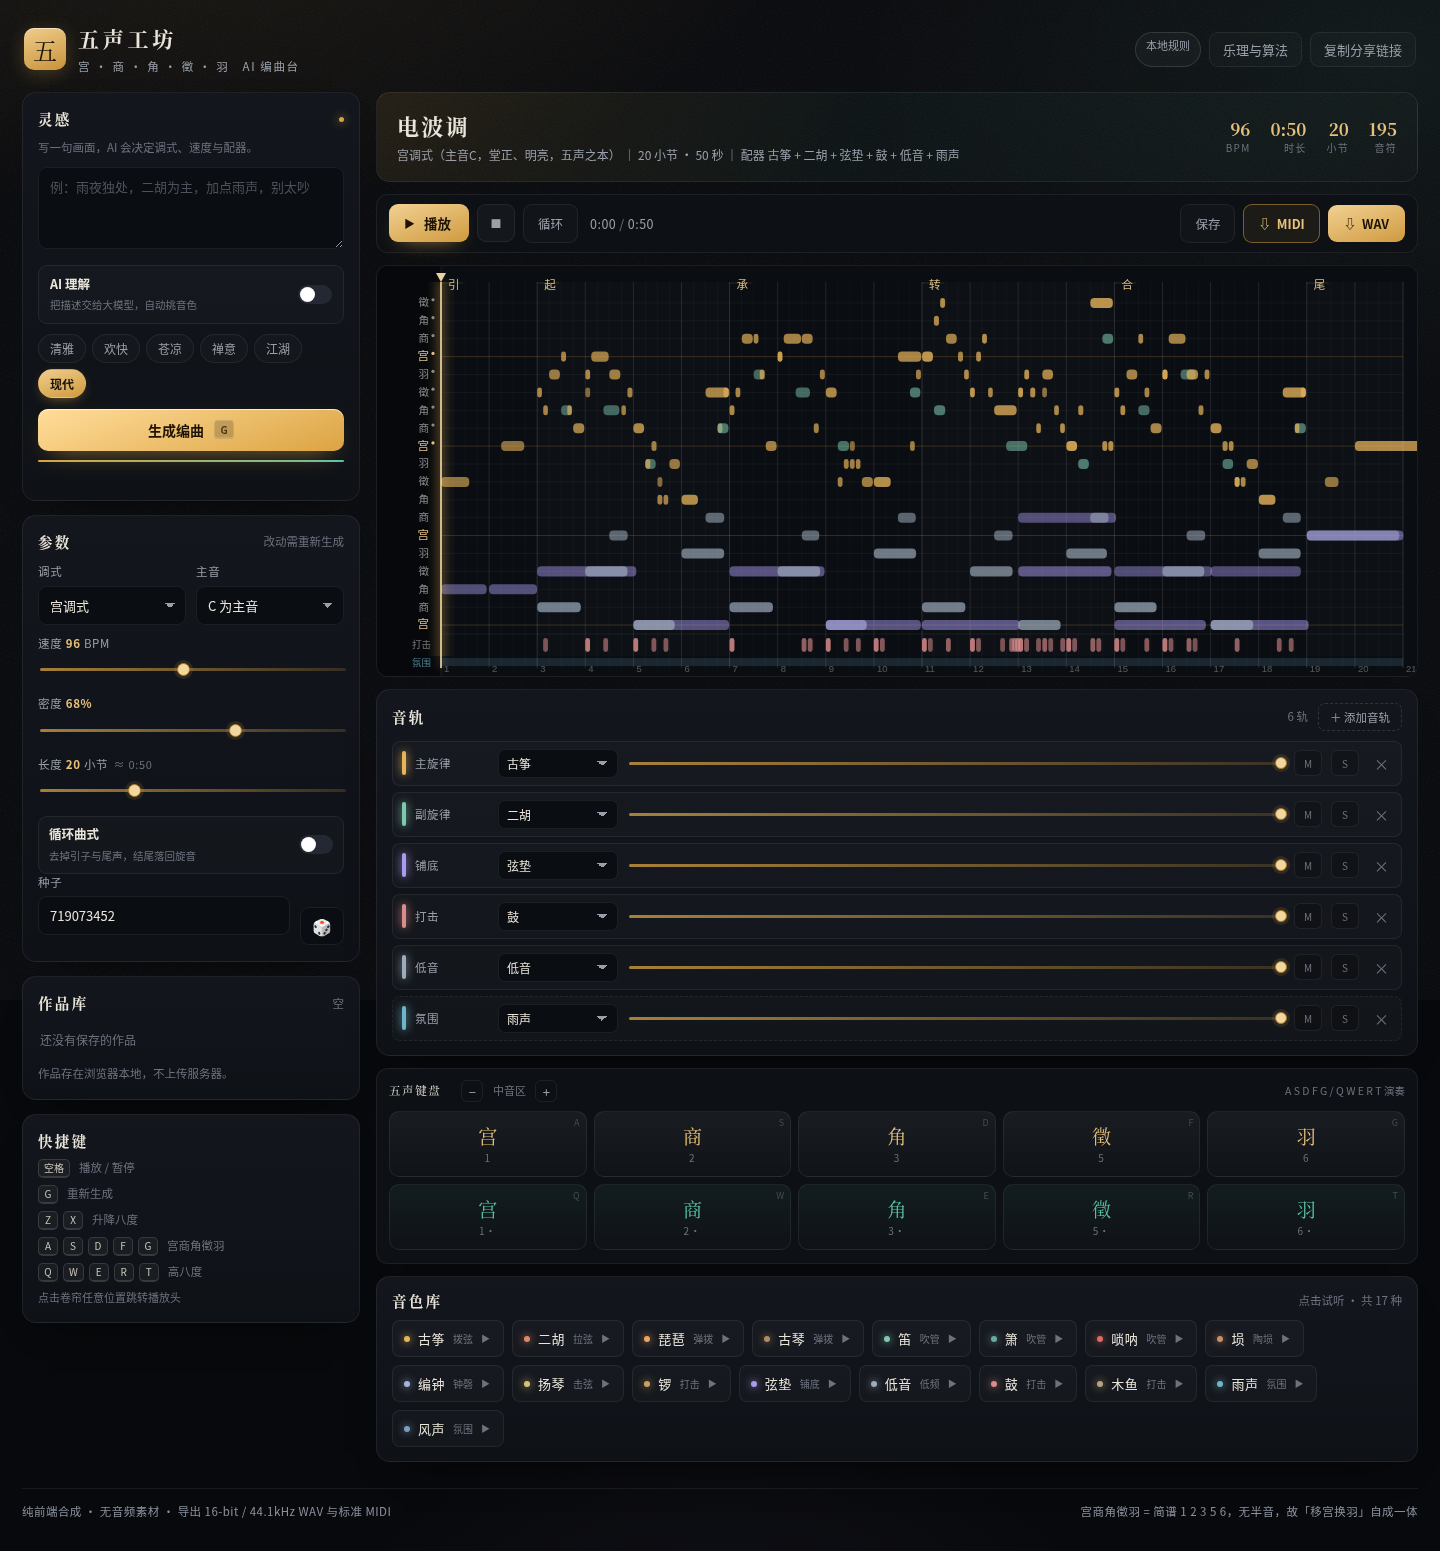
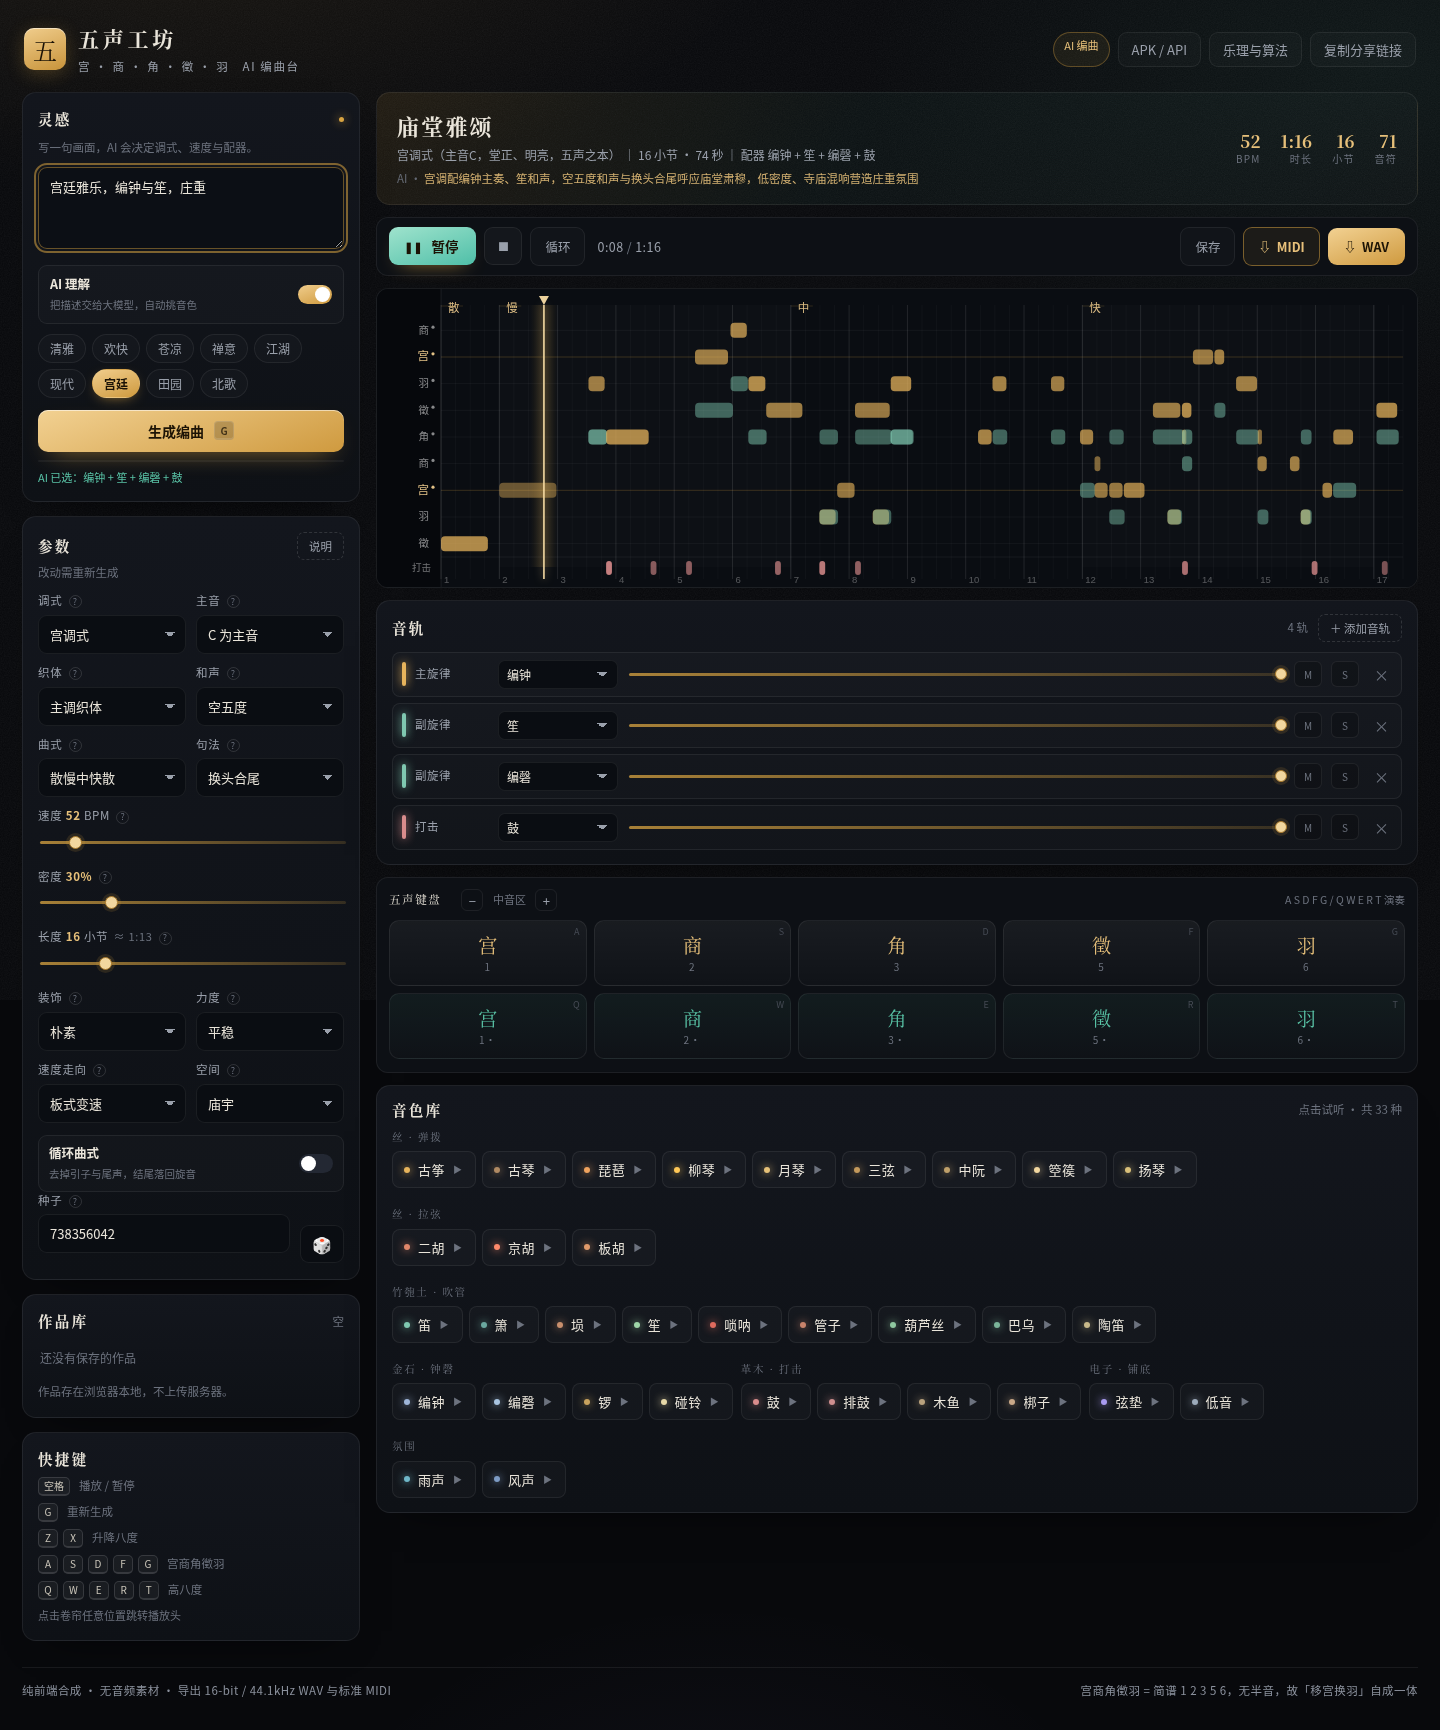
fix: 下拉选项文案收短，避免移动端截断

diff --git a/public/js/techniques.js b/public/js/techniques.js
@@ -57,7 +57,7 @@ export const HARMONY_STYLES = {
 /* ---------------- 板式 ---------------- */
 export const BANSHI = {
   tempoCurve: {
-    id: 'tempoCurve', name: '散-慢-中-快-散', short: '板式',
+    id: 'tempoCurve', name: '板式变速', short: '板式',
     desc: '传统曲式的速度骨架：散板引子起，慢板铺陈，中板推进，快板推向高潮，散板收束。',
   },
   steady: {
@@ -65,7 +65,7 @@ export const BANSHI = {
     desc: '全曲速度恒定，适合背景音乐与循环曲，不会突然变速。',
   },
   accelerando: {
-    id: 'accelerando', name: '渐快', short: '渐快',
+    id: 'accelerando', name: '逐步加速', short: '渐快',
     desc: '从慢板逐步加速到快板，情绪单向推进。',
   },
 };

diff --git a/public/js/app.js b/public/js/app.js
@@ -134,7 +134,7 @@ function initControls() {
   $('key').innerHTML = KEYS.map(k => `<option value="${k.name}">${k.name} 为主音</option>`).join('');
   const fill = (id, map, key = 'name') => {
     $(id).innerHTML = Object.values(map)
-      .map(v => `<option value="${v.id}">${v[key]}${v.short && v.short !== v[key] ? ' · ' + v.short : ''}</option>`)
+      .map(v => `<option value="${v.id}">${v[key]}</option>`)
       .join('');
   };
   fill('texture', TEXTURES);
